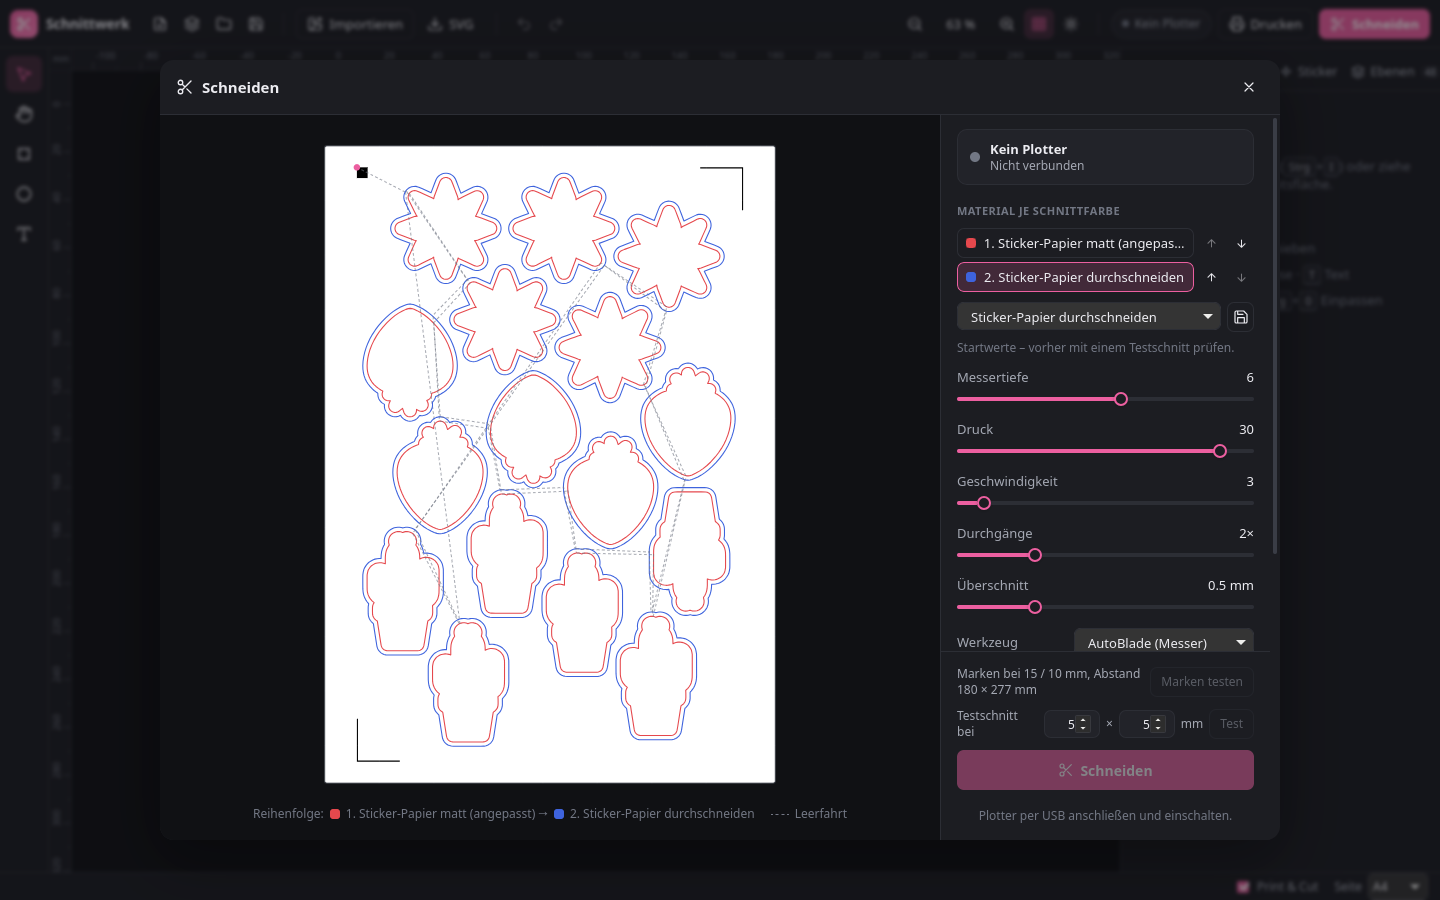
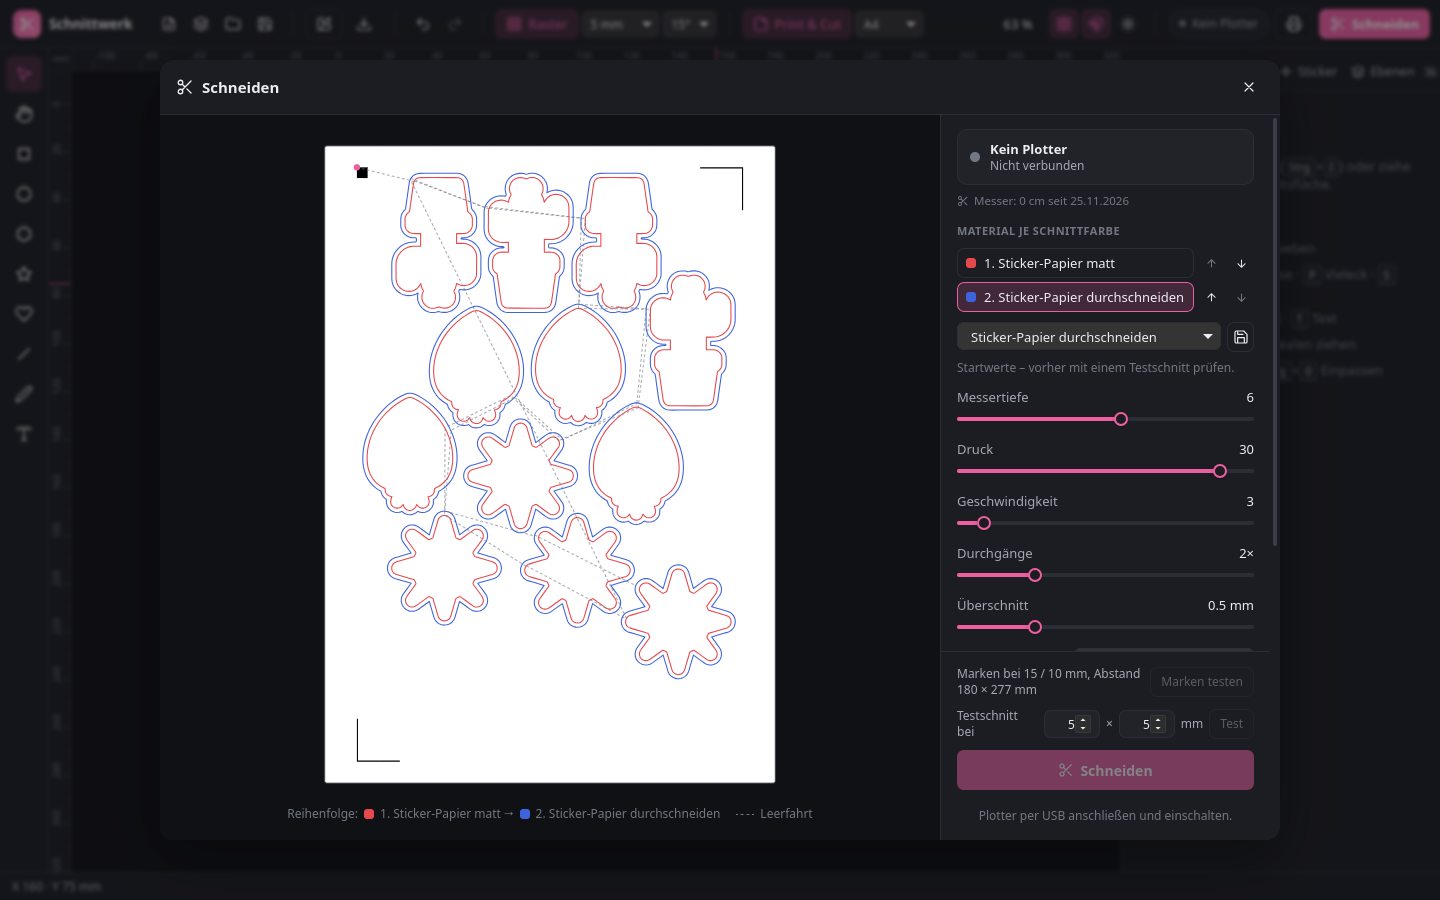
README: neue Screenshots
Startseite, Tracen, Sticker-Assistent, Formen mit Text auf Bogen,
Schneiden und Kacheln mit der aktuellen Oberfläche; neues Titelbild.

diff --git a/README.md b/README.md
@@ -18,9 +18,13 @@ brauchst dafür weder Silhouette Studio noch Windows.
 > neuem Material immer erst einen Testschnitt. Die Nutzung erfolgt auf eigene
 > Verantwortung (siehe [Lizenz](#lizenz)).
 
-| Bilder tracen | Sticker-Assistent | Schneiden |
+| Startseite | Bilder tracen | Sticker-Assistent |
 |---|---|---|
-| ![Tracen](docs/screenshots/tracen.png) | ![Sticker-Assistent](docs/screenshots/sticker-assistent.png) | ![Schneiden](docs/screenshots/schneiden.png) |
+| ![Startseite mit Projektarten und zuletzt geöffneten Projekten](docs/screenshots/startseite.png) | ![Tracen](docs/screenshots/tracen.png) | ![Sticker-Assistent](docs/screenshots/sticker-assistent.png) |
+
+| Formen, Text auf Bogen, Hilfslinien | Schneiden | Große Motive in Kacheln |
+|---|---|---|
+| ![Formen und Text](docs/screenshots/formen.png) | ![Schneiden](docs/screenshots/schneiden.png) | ![Kacheln](docs/screenshots/kacheln.png) |
 
 ## Installation
 
